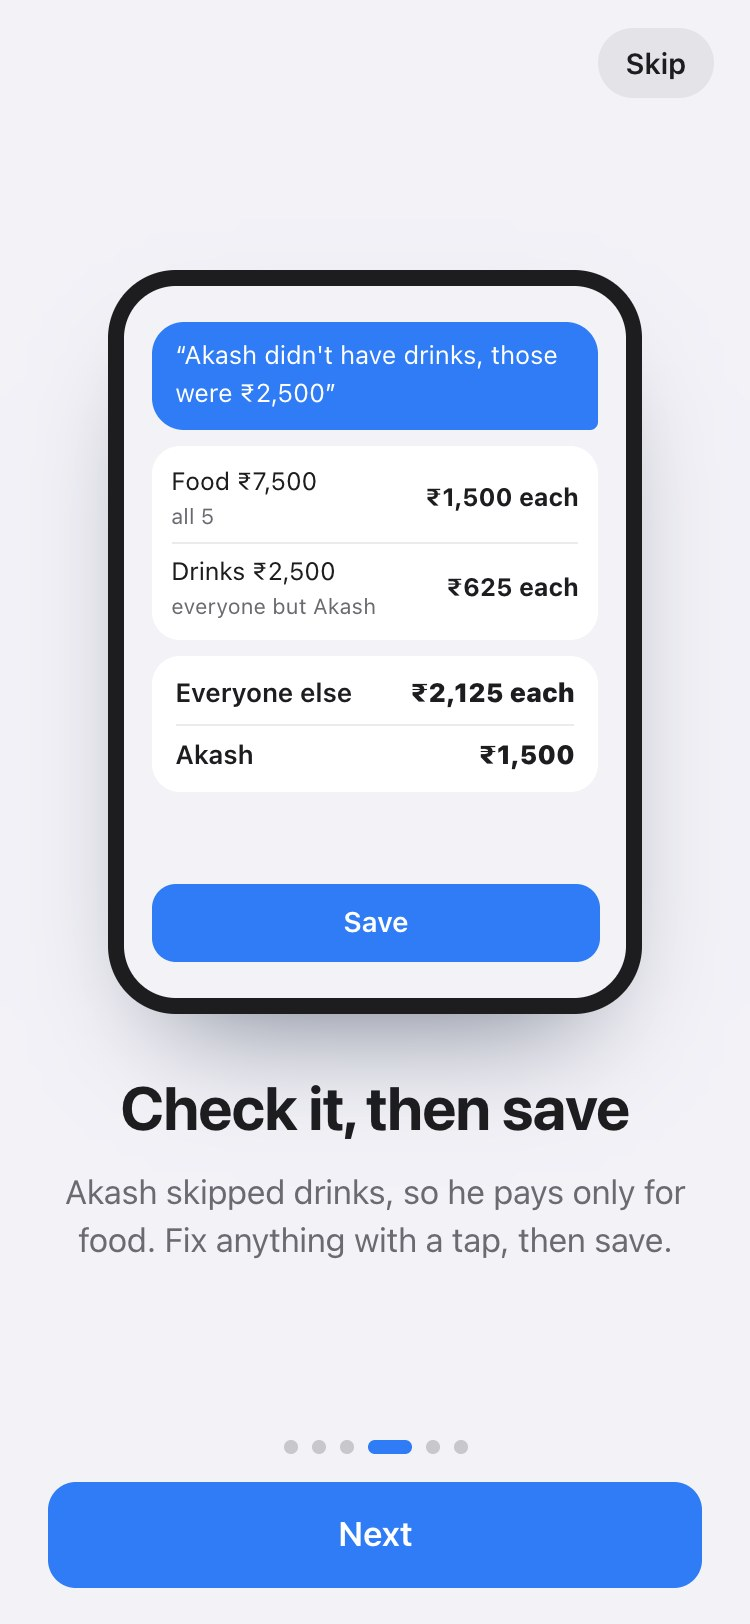
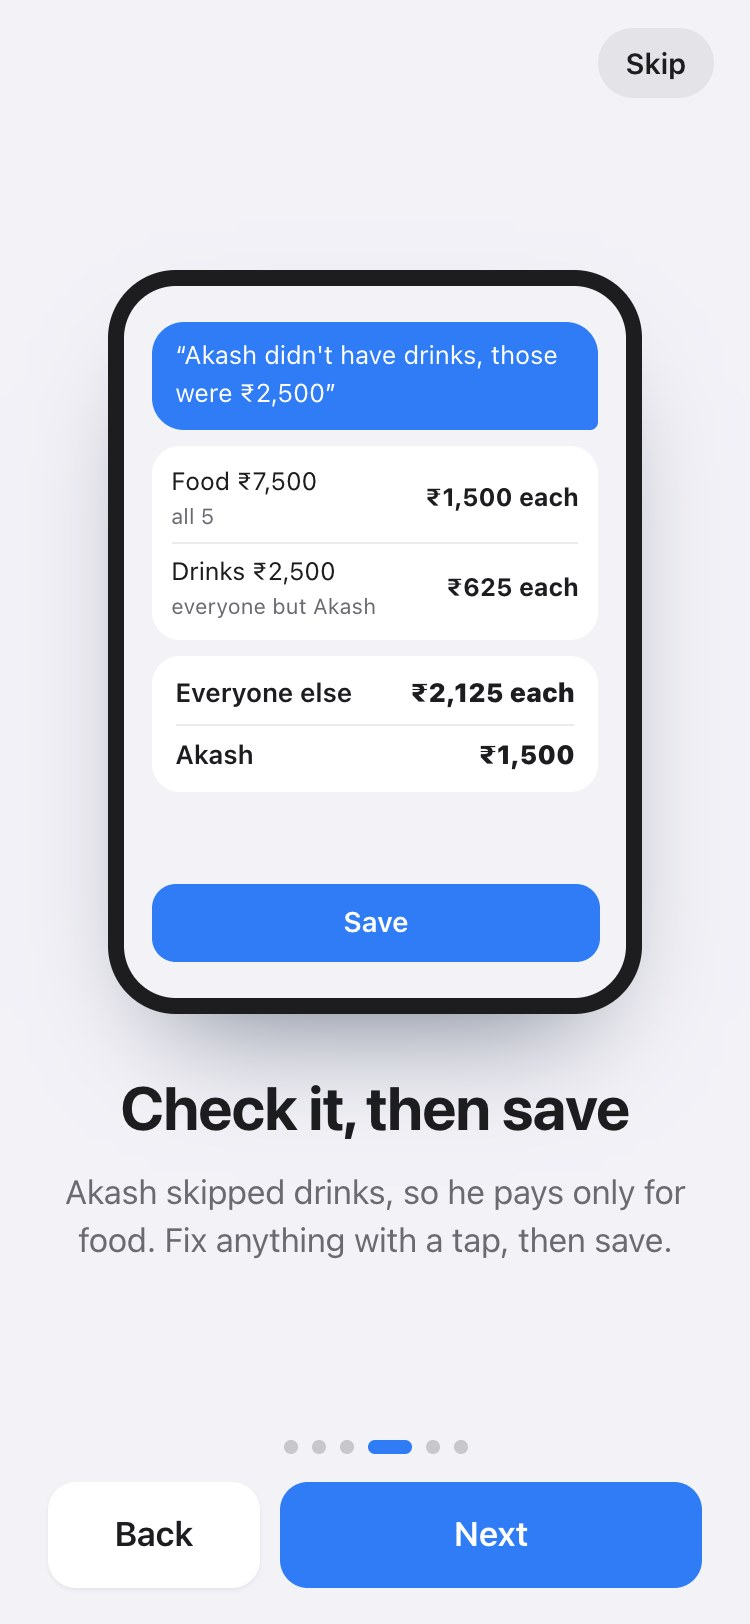
Tour: Back buttons, and adding a friend by number in the friends step

Changed region(s): [[0.0613, 0.8929, 0.3987, 0.9852], [0.4293, 0.9236, 0.552, 0.9544], [0.6133, 0.9236, 0.7053, 0.9544]]

diff --git a/public/index.html b/public/index.html
@@ -13,7 +13,7 @@
 <meta name="mobile-web-app-capable" content="yes">
 <meta name="apple-mobile-web-app-title" content="Kitty">
 <meta name="apple-mobile-web-app-status-bar-style" content="default">
-<link rel="stylesheet" href="/static/style.css?v=21">
+<link rel="stylesheet" href="/static/style.css?v=22">
 </head>
 <body>
 <div class="app">
@@ -269,7 +269,13 @@
         <!-- Step 2: find your friends (contacts, matched on the phone) -->
         <div class="scene s1">
           <div class="perm"><span class="permIcon"><svg viewBox="0 0 24 24" aria-hidden="true"><path d="M6 2h12a2 2 0 0 1 2 2v16a2 2 0 0 1-2 2H6a2 2 0 0 1-2-2V4a2 2 0 0 1 2-2Zm6 9a3 3 0 1 0 0-6 3 3 0 0 0 0 6Zm-5 6h10c0-2.2-2.5-4-5-4s-5 1.8-5 4Z"/></svg></span><b>Allow Kitty to see your contacts?</b><small>Names stay on your phone</small><span class="permBtns"><i>Don't allow</i><i class="allow">Allow</i></span></div>
-          <ul class="ctList ffList"><li><span class="avatar">R</span><span class="ffName">Ravi</span><span class="ffChip"><i class="add">Add</i><i class="added">✓ Added</i></span></li><li><span class="avatar">S</span><span class="ffName">Suresh</span><span class="ffChip"><i class="add">Add</i><i class="added">✓ Added</i></span></li><li><span class="avatar">A</span><span class="ffName">Akash</span><span class="ffChip"><i class="add">Add</i><i class="added">✓ Added</i></span></li><li><span class="avatar">A</span><span class="ffName">Arun</span><span class="ffChip"><i class="add">Add</i><i class="added">✓ Added</i></span></li></ul>
+          <ul class="ctList ffList"><li><span class="avatar">R</span><span class="ffName">Ravi</span><span class="ffChip"><i class="add">Add</i><i class="added">✓ Added</i></span></li><li><span class="avatar">S</span><span class="ffName">Suresh</span><span class="ffChip"><i class="add">Add</i><i class="added">✓ Added</i></span></li><li><span class="avatar">A</span><span class="ffName">Akash</span><span class="ffChip"><i class="add">Add</i><i class="added">✓ Added</i></span></li><li><span class="avatar">A</span><span class="ffName">Arun</span><span class="ffChip"><i class="add">Add</i><i class="added">✓ Added</i></span></li><li class="ffNew"><span class="avatar">P</span><span class="ffName">Priya</span><span class="ffChip"><i class="added">✓ Added</i></span></li></ul>
+          <div class="ffSheet">
+            <b>Add by number</b>
+            <small>Name</small><p class="ffField"><span id="howFfName"></span></p>
+            <small>WhatsApp number</small><p class="ffField"><span id="howFfPhone"></span></p>
+            <span class="ffAdd">Add friend</span>
+          </div>
         </div>
         <!-- Step 3: names appear -->
         <div class="scene s2">
@@ -327,7 +333,7 @@
     </div>
     <div class="introFoot">
       <div class="dots" id="howDots" aria-hidden="true"></div>
-      <button id="howNext" class="primaryBtn" type="button">Next</button>
+      <div class="footBtns"><button id="howBack" class="primaryBtn ghost" type="button">Back</button><button id="howNext" class="primaryBtn" type="button">Next</button></div>
     </div>
   </section>
 
@@ -343,7 +349,7 @@
         </div>
         <p id="oError" class="error" hidden>Please add your name.</p>
           </div>
-    <div class="introFoot"><button id="setupDone" class="primaryBtn" type="button">Start using Kitty</button></div>
+    <div class="introFoot"><div class="footBtns"><button id="setupBack" class="primaryBtn ghost" type="button">Back</button><button id="setupDone" class="primaryBtn" type="button">Start using Kitty</button></div></div>
   </section>
 
   <!-- Contacts prompt in the main app -->
@@ -391,6 +397,6 @@
   <div id="toast" class="toast" role="status" hidden></div>
 </div>
 <div id="print" class="print" aria-hidden="true"></div>
-<script src="/static/app.js?v=22"></script>
+<script src="/static/app.js?v=23"></script>
 </body>
 </html>

diff --git a/public/static/app.js b/public/static/app.js
@@ -938,13 +938,18 @@ async function renderGroupChart() {
 // ---------- first-run walkthrough ----------
 // Welcome -> How it works (6 illustrated steps) -> Let's set you up -> the app.
 const TOUR_VERSION = 6;
+// A screen that's being hidden finishes fading first; showing it again cancels that,
+// so a quick Back never ends on a blank screen.
+const stageTimers = {};
 function showStage(id) {
+  clearTimeout(stageTimers[id]);
   $(id).hidden = false;
   requestAnimationFrame(() => document.body.classList.add(id + "-open"));
 }
 function hideStage(id) {
+  clearTimeout(stageTimers[id]);
   document.body.classList.remove(id + "-open");
-  setTimeout(() => { $(id).hidden = true; }, 350);
+  stageTimers[id] = setTimeout(() => { $(id).hidden = true; }, 350);
 }
 function openIntro() {
   hideStage("setup"); hideStage("how");
@@ -991,7 +996,7 @@ $("setupDone").addEventListener("click", () => {
 // Its numbers come from the app's own split maths (splits.py).
 const HOW = [
   { title: "Just say it", text: "Tap the mic and say the expense the way you'd tell a friend, in English, Tamil, Hindi or a mix." },
-  { title: "Find your friends", text: "Allow contacts once, and Kitty matches the names you say to people on your phone. They never leave it." },
+  { title: "Find your friends", text: "Pick them from your contacts, or add someone by name and WhatsApp number. Everything stays on your phone." },
   { title: "Kitty finds the people", text: "The names you said show up, ready to check. Tap Next when it looks right." },
   { title: "Check it, then save", text: "Akash skipped drinks, so he pays only for food. Fix anything with a tap, then save." },
   { title: "Groups keep the tally", text: "Make a group for a trip or your flat. Every expense adds up, and Kitty works out who pays whom in the fewest payments." },
@@ -1034,6 +1039,14 @@ function showHow(i) {
   const g = $("howGroupName");
   g.textContent = "";
   if (i === 0) howTimer = setTimeout(() => typeSayings(0), 700);
+  $("howFfName").textContent = ""; $("howFfPhone").textContent = "";
+  if (i === 1) {
+    // After the contacts, one friend is added by hand: name, then number
+    const typeInto = (box, text, then) => { const c = [...text]; let n = 0;
+      const type = () => { box.textContent = c.slice(0, ++n).join(""); if (n < c.length) howTimer = setTimeout(type, 90); else if (then) howTimer = setTimeout(then, 250); };
+      type(); };
+    howTimer = setTimeout(() => typeInto($("howFfName"), "Priya", () => typeInto($("howFfPhone"), "99999 99999")), 5700);
+  }
   if (i === 4) {
     const chars = [..."Goa trip"];
     let n = 0;
@@ -1043,6 +1056,9 @@ function showHow(i) {
 }
 $("howNext").addEventListener("click", () => { if (howAt < HOW.length - 1) showHow(howAt + 1); else openSetup(); });
 $("howSkip").addEventListener("click", openSetup);
+// Back: to the previous step, from the first step to Welcome, and from set up to the last step
+$("howBack").addEventListener("click", () => { if (howAt > 0) showHow(howAt - 1); else { stopHow(); showStage("intro"); hideStage("how"); } });
+$("setupBack").addEventListener("click", () => { showStage("how"); showHow(HOW.length - 1); hideStage("setup"); });
 // The tour shows once per tour version, so a changed tour reaches people who saw an older one.
 // Opening the app at /#welcome always shows it, which is handy for demos.
 if (state.onboarded !== TOUR_VERSION || ASKED_FOR_TOUR) openIntro();

diff --git a/public/static/style.css b/public/static/style.css
@@ -603,3 +603,19 @@ textarea.field{resize:none;line-height:1.4;font:inherit}
 .searchBox input{flex:1;min-width:0;border:0;background:transparent;outline:none;font-size:1rem;color:var(--ink)}
 .searchBox:focus-within{box-shadow:0 0 0 2px var(--blue-soft)}
 #friendsNoMatch{margin-top:12px}
+
+/* Tour footers: Back and Next side by side */
+.footBtns{display:grid;grid-template-columns:1fr 2fr;gap:10px}
+.footBtns .primaryBtn.ghost{background:var(--card);color:var(--ink);box-shadow:0 1px 2px rgba(0,0,0,.06)}
+/* How it works 2: after the contacts, one friend added by number */
+.ffList .ffNew{opacity:0}
+.play .ffList .ffNew{animation:pop .4s 8.9s var(--ease) both}
+.ffSheet{position:absolute;left:0;right:0;bottom:0;background:var(--card);border-radius:18px 18px 0 0;padding:12px 16px 14px;display:grid;gap:3px;text-align:left;box-shadow:0 -10px 24px -14px rgba(0,0,0,.35);transform:translateY(105%)}
+.play .ffSheet{animation:slideUp .45s 5.1s var(--ease) forwards,sheetOut .4s 8.4s var(--ease) forwards}
+@keyframes sheetOut{from{transform:none}to{transform:translateY(105%)}}
+.ffSheet b{font-size:.92rem;margin-bottom:4px}
+.ffSheet small{color:var(--muted);font-size:.7rem}
+.ffField{margin:0 0 4px;min-height:1.5em;padding:4px 8px;border-radius:8px;background:var(--gray);font-size:.85rem;font-weight:600}
+.ffAdd{margin-top:4px;text-align:center;padding:8px;border-radius:10px;background:var(--blue);color:#fff;font-weight:600;font-size:.82rem}
+.play .ffAdd{animation:press .5s 7.9s var(--ease)}
+.ffList .ffNew .added{opacity:1}

diff --git a/public/sw.js b/public/sw.js
@@ -1,5 +1,5 @@
 // Keeps the app shell available so it opens like an app. API calls always go to the network.
-const CACHE = "kitty-v25";
+const CACHE = "kitty-v26";
 const SHELL = ["/", "/static/style.css?v=13", "/static/app.js?v=14", "/manifest.webmanifest", "/icons/icon-192.png"];
 self.addEventListener("install", (e) => { e.waitUntil(caches.open(CACHE).then((c) => c.addAll(SHELL))); self.skipWaiting(); });
 self.addEventListener("activate", (e) => {

diff --git a/test-outputs/README.md b/test-outputs/README.md
@@ -8,14 +8,16 @@ Every screenshot is made by `node tools/screenshots.mjs`, which opens the app in
 
 ### Welcome and guide tour
 
-One expense runs through the guide: a ₹10,000 dinner where Akash skipped drinks. Its numbers come from the app's own split maths (`splits.py`).
+Every tour screen after Welcome has Back and Next; Back on the first step returns to Welcome, and Back on set up returns to the last step. One expense runs through the guide: a ₹10,000 dinner where Akash skipped drinks. Its numbers come from the app's own split maths (`splits.py`).
 
 | File | What it shows |
 |---|---|
 | `01-welcome.jpg` | Welcome |
 | `02-how-1-say.jpg` | 1 Just say it: types Tanglish, Hinglish, Tamil and Hindi examples, then stops on the English dinner |
 | `02-how-1-say-laptop-window.jpg` | The same step in a laptop-size window: the phone frame grows (300 × 470) instead of looking small |
-| `03-how-2-friends.jpg` | 2 Find your friends: allow contacts, then each person flips from Add to ✓ Added |
+| `03-how-2-friends-1-contacts.jpg` | 2 Find your friends: allow contacts, then each person flips from Add to ✓ Added |
+| `03-how-2-friends-2-by-number.jpg` | 2, same screen: adding Priya by name and WhatsApp number |
+| `03-how-2-friends-3-added.jpg` | 2, end: Priya joins the list |
 | `04-how-3-names.jpg` | 3 Kitty finds the people: five names pop in, then Next |
 | `05-how-4-check.jpg` | 4 Check it, then save: food ₹7,500 for all 5, drinks ₹2,500 without Akash; Akash ₹1,500, everyone else ₹2,125 |
 | `06-how-5-group-make.jpg` | 5 Groups keep the tally, first half: making "Goa trip" |
